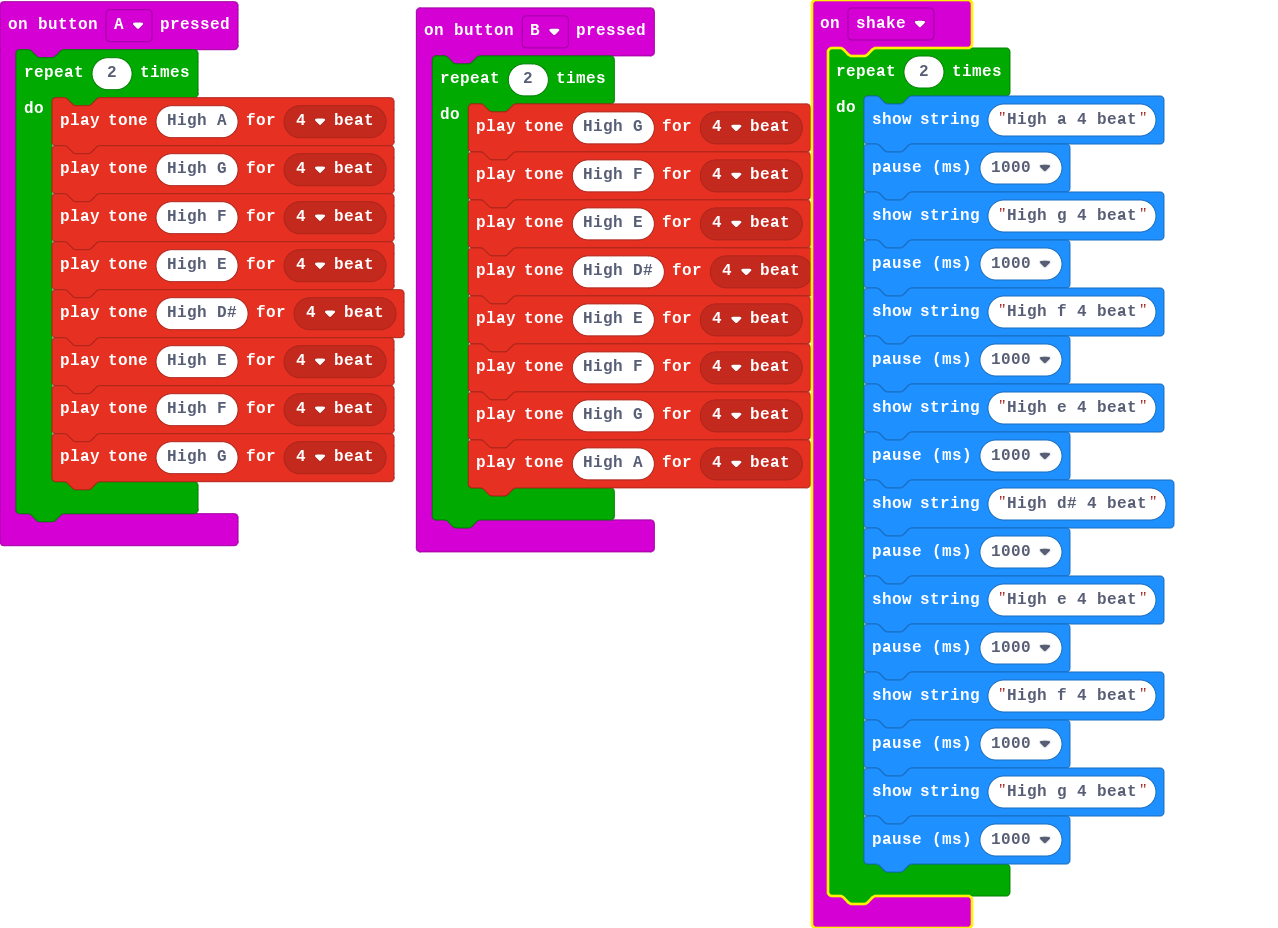
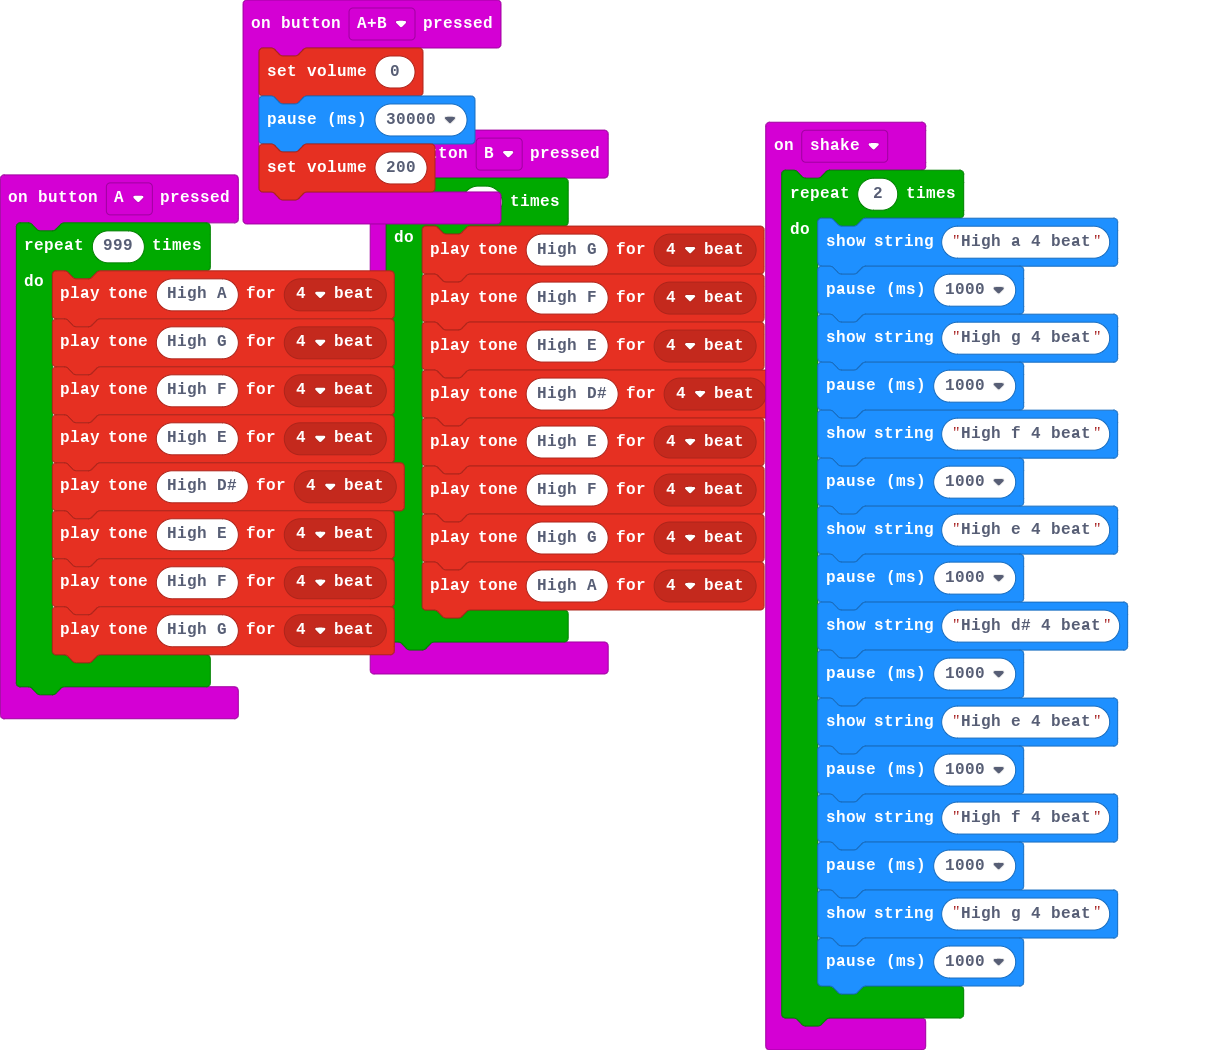
pause

diff --git a/main.ts b/main.ts
@@ -1,5 +1,5 @@
 input.onButtonPressed(Button.A, function () {
-    for (let index = 0; index < 2; index++) {
+    for (let index = 0; index < 999; index++) {
         music.playTone(880, music.beat(BeatFraction.Breve))
         music.playTone(784, music.beat(BeatFraction.Breve))
         music.playTone(698, music.beat(BeatFraction.Breve))
@@ -9,6 +9,11 @@ input.onButtonPressed(Button.A, function () {
         music.playTone(698, music.beat(BeatFraction.Breve))
         music.playTone(784, music.beat(BeatFraction.Breve))
     }
+})
+input.onButtonPressed(Button.AB, function () {
+    music.setVolume(0)
+    basic.pause(30000)
+    music.setVolume(200)
 })
 input.onButtonPressed(Button.B, function () {
     for (let index = 0; index < 2; index++) {
